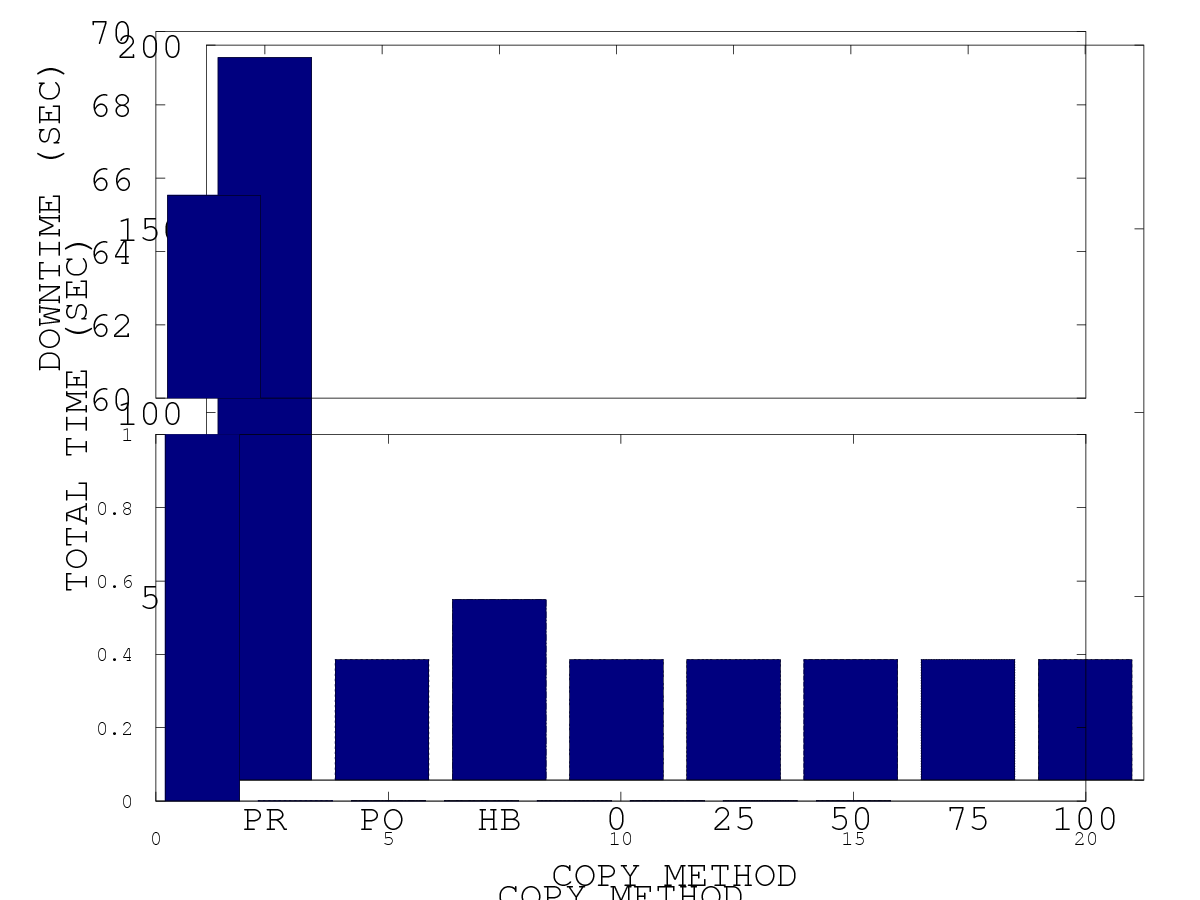
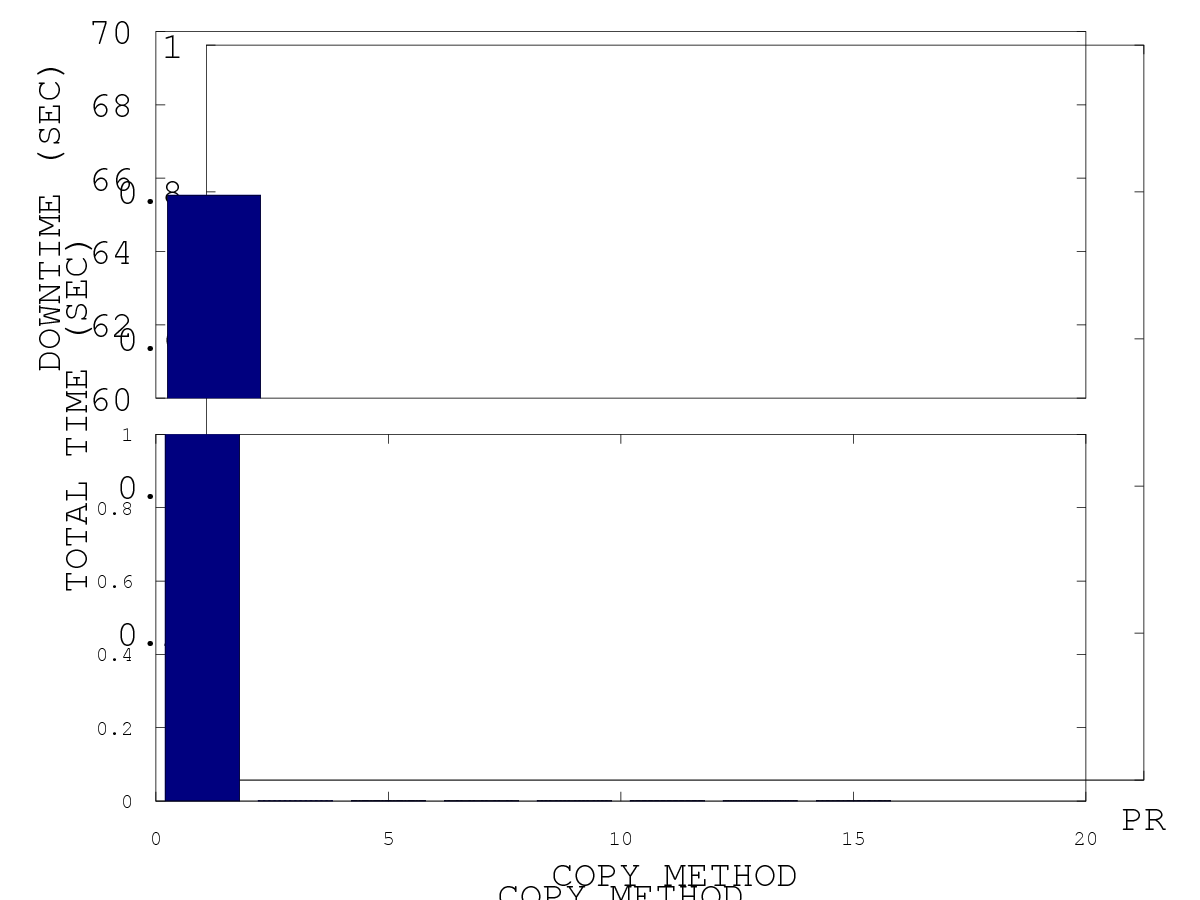
basic_break.m

diff --git a/basic_break.m b/basic_break.m
@@ -317,11 +317,11 @@ clf;
 p0 = get (gca, 'position');
 delete(gcf);
 
+cla;
+
 a1 = axes ('position', [p0(1) p0(2) p0(3) p0(4)/2]);
 
-%bar(A(:,2))
 bar(xintervals, A(:,2))
-%set(gca, 'XTick', 1:8, 'XTickLabel', x, 'FontSize', fontsize)
 %set(gca, 'XTick', xintervals, 'XTickLabel', x, 'FontSize', fontsize)
 set (a1, 'ylim', ylim1);
 %set(a1, 'xtick', []);
